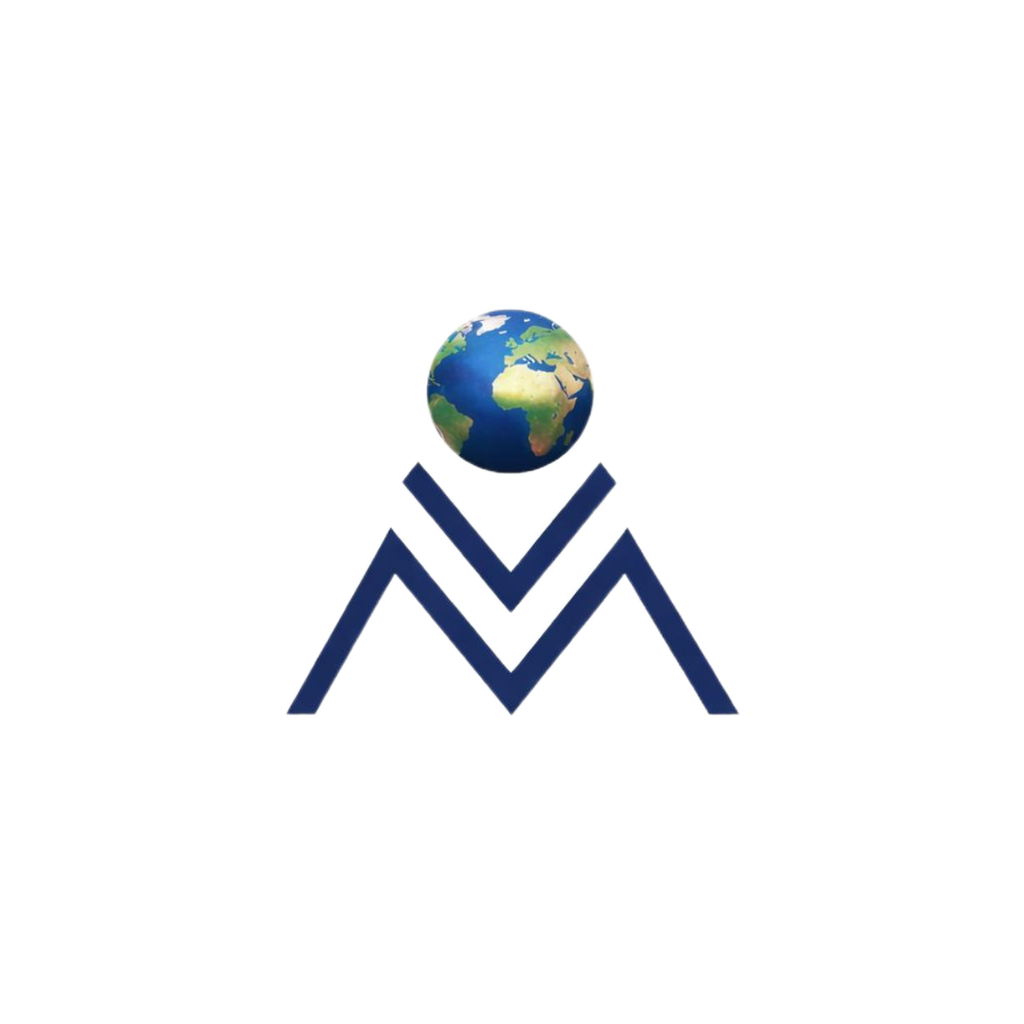
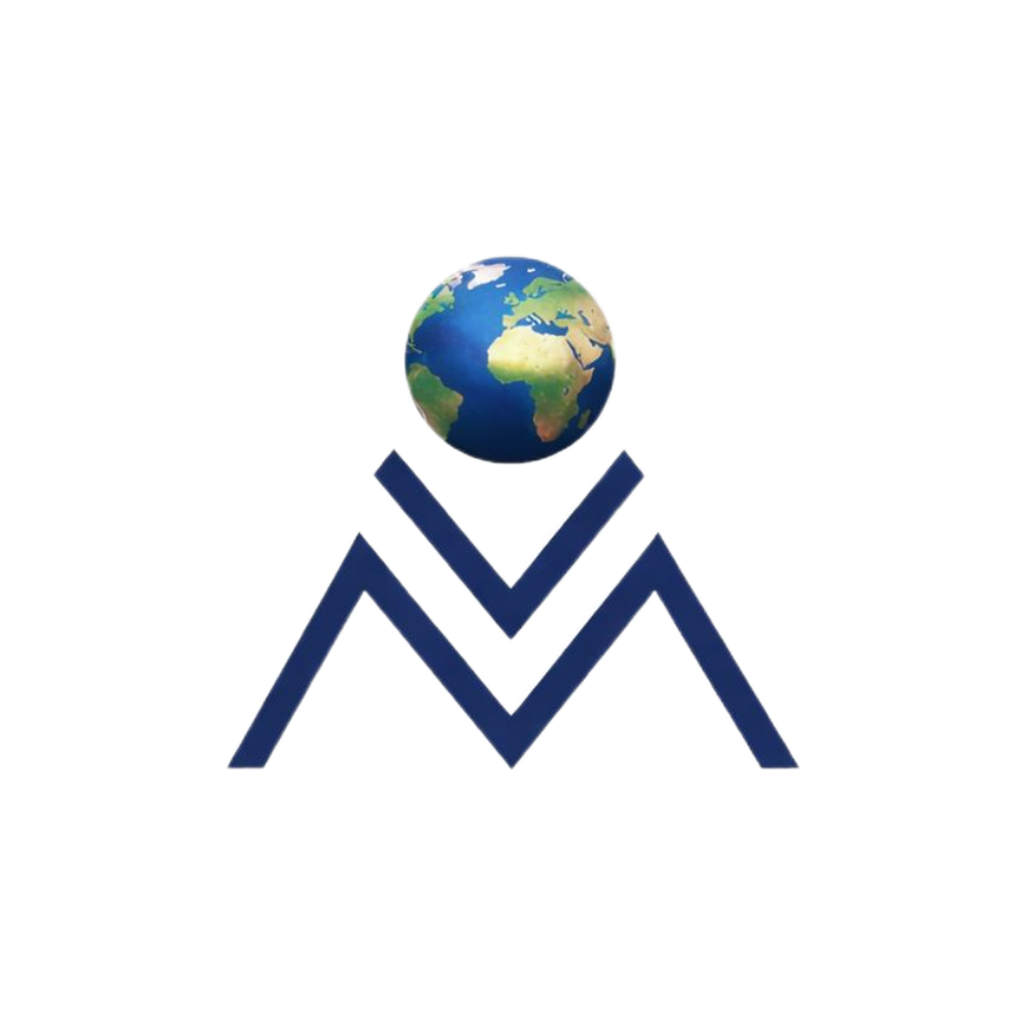
fix(mobile): фон adaptive-иконки — светлый токен, знак крупнее (VED-173)
Ревью на устройстве: тёмно-синий шеврон «M» на тёмном фоне adaptiveIcon
(light.text0, #180F2C) читался плохо под круглой/сквиркл-маской лаунчера —
виден был только глобус. Фон adaptive-иконки (app.config.ts и
android-icon-background.png) заменён на светлый light.bg0 (#FBF9FF), тот же
токен, что у icon.png и сплэша.

Заодно знак на icon.png/foreground увеличен: geometry-хелперы
(brand-geometry.mjs) обобщены на p-норму — exponent=2 даёт строгий круг,
exponent=4 приближает реальную форму масок большинства лаунчеров (сквиркл/
скруглённый квадрат, см. eval-rubric.md про Samsung One UI). Доля холста для
знака выросла с ≈0.444 (строгий круг) до ≈0.561 (сквиркл, ближе к «~60%» из
ревью) — под сквирклом знак не обрезается ни на пиксель, под идеальным
кругом чуть выступает самый острый кончик шеврона (проверено численно и
превью в scripts/verify-brand-assets.mjs), что на практике ни один реальный
лаунчер не применяет. Monochrome-слой не трогали — прежняя консервативная
геометрия, файл не изменился.

Changed region(s): [[0.2188, 0.25, 0.7812, 0.75]]

diff --git a/apps/mobile/app.config.ts b/apps/mobile/app.config.ts
@@ -33,12 +33,16 @@ export default ({ config }: ConfigContext): ExpoConfig => {
       ...(withFirebase ? { googleServicesFile } : {}),
       versionCode: 1,
       adaptiveIcon: {
-        // theme/tokens.ts: light.text0 — фон под фирменным знаком, одинаков в
+        // theme/tokens.ts: light.bg0 — фон под фирменным знаком, одинаков в
         // обеих темах интерфейса (это подложка самой иконки, а не
-        // темизируемый UI-фон). backgroundImage ниже перекрывает этот цвет
-        // (`@expo/prebuild-config` всегда предпочитает backgroundImage, если
-        // он задан), но оставляем backgroundColor как запасной путь.
-        backgroundColor: '#180F2C',
+        // темизируемый UI-фон); тот же цвет, что и у icon.png/сплэша.
+        // Раньше здесь стоял тёмно-фиолетовый light.text0 (#180F2C) — на
+        // ревью на устройстве тёмно-синий шеврон «M» на нём читался плохо
+        // (виден был только глобус, буква тонула в тёмном фоне). backgroundImage
+        // ниже перекрывает этот цвет (`@expo/prebuild-config` всегда
+        // предпочитает backgroundImage, если он задан), но оставляем
+        // backgroundColor как запасной путь.
+        backgroundColor: '#FBF9FF',
         foregroundImage: './assets/images/android-icon-foreground.png',
         backgroundImage: './assets/images/android-icon-background.png',
         monochromeImage: './assets/images/android-icon-monochrome.png',
